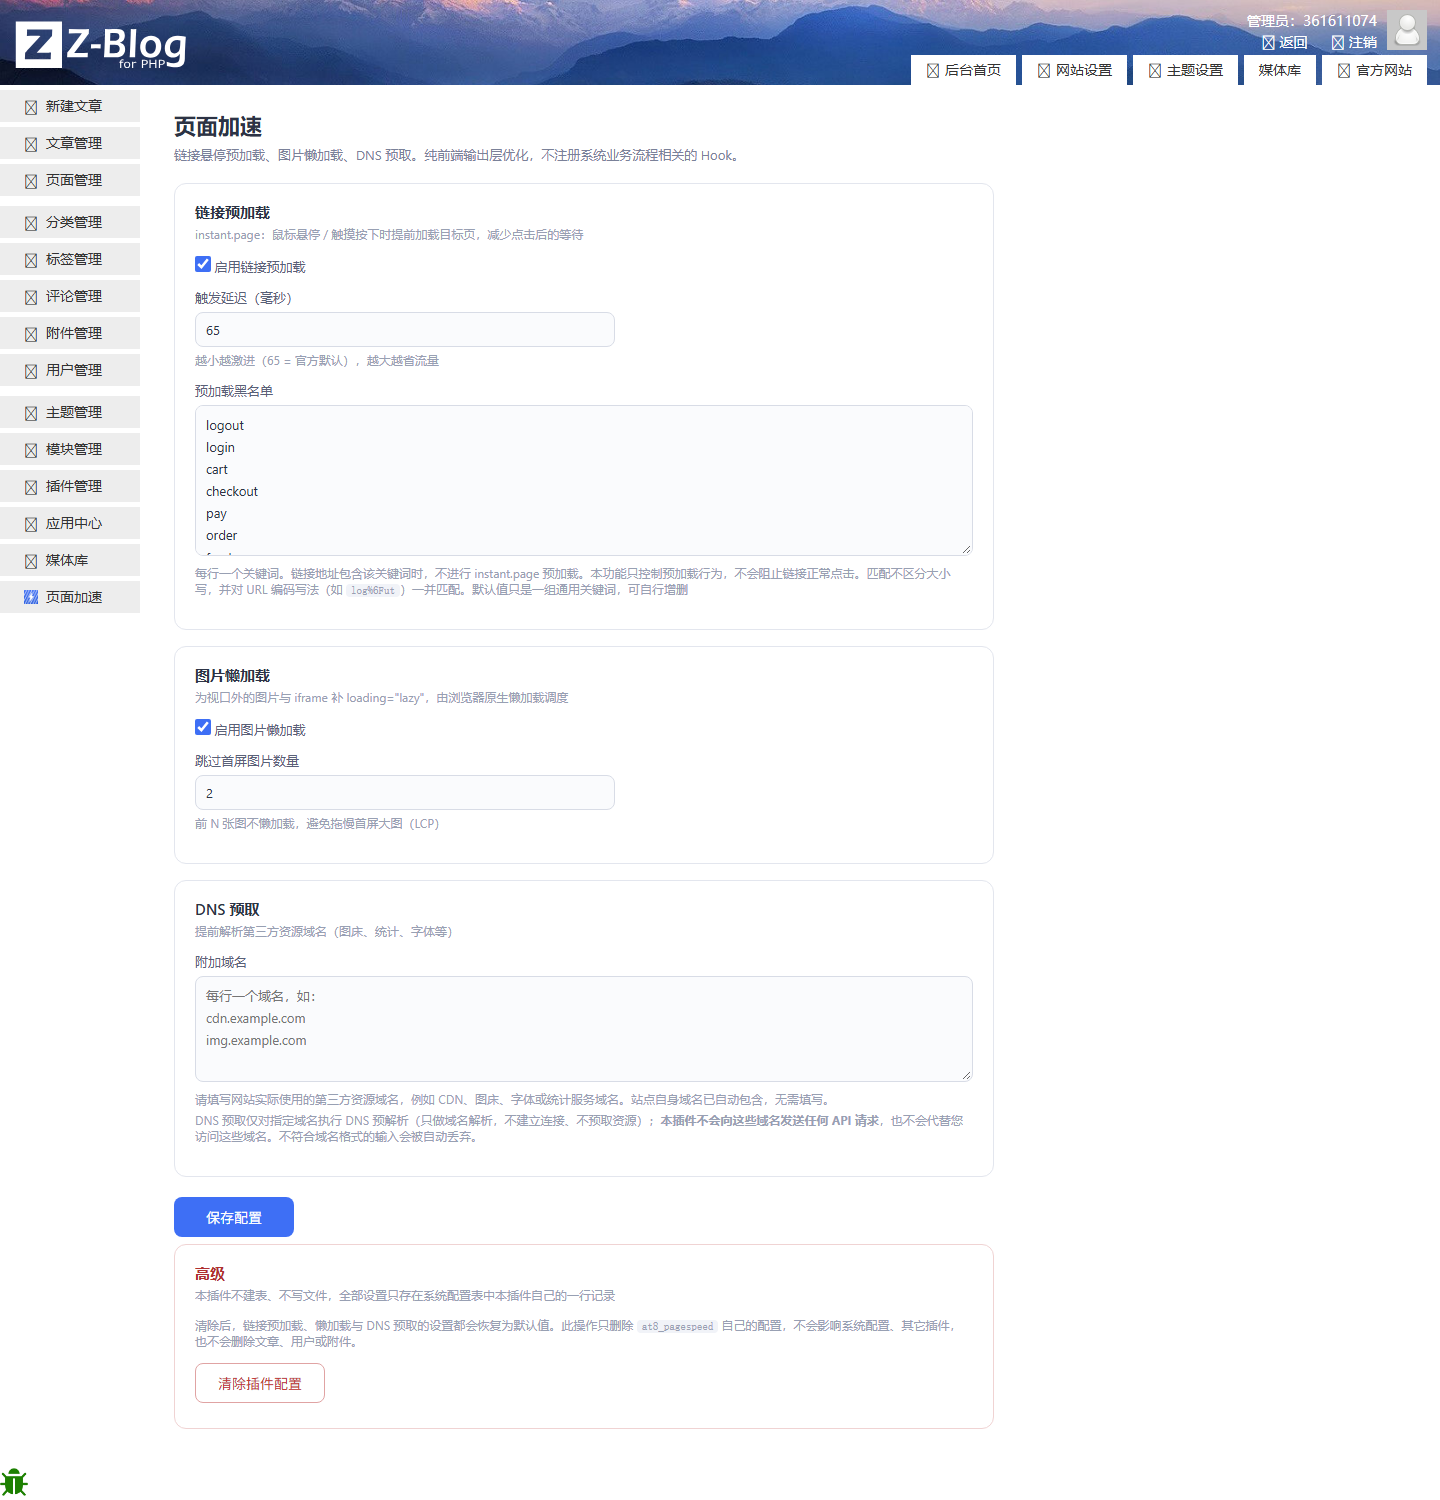
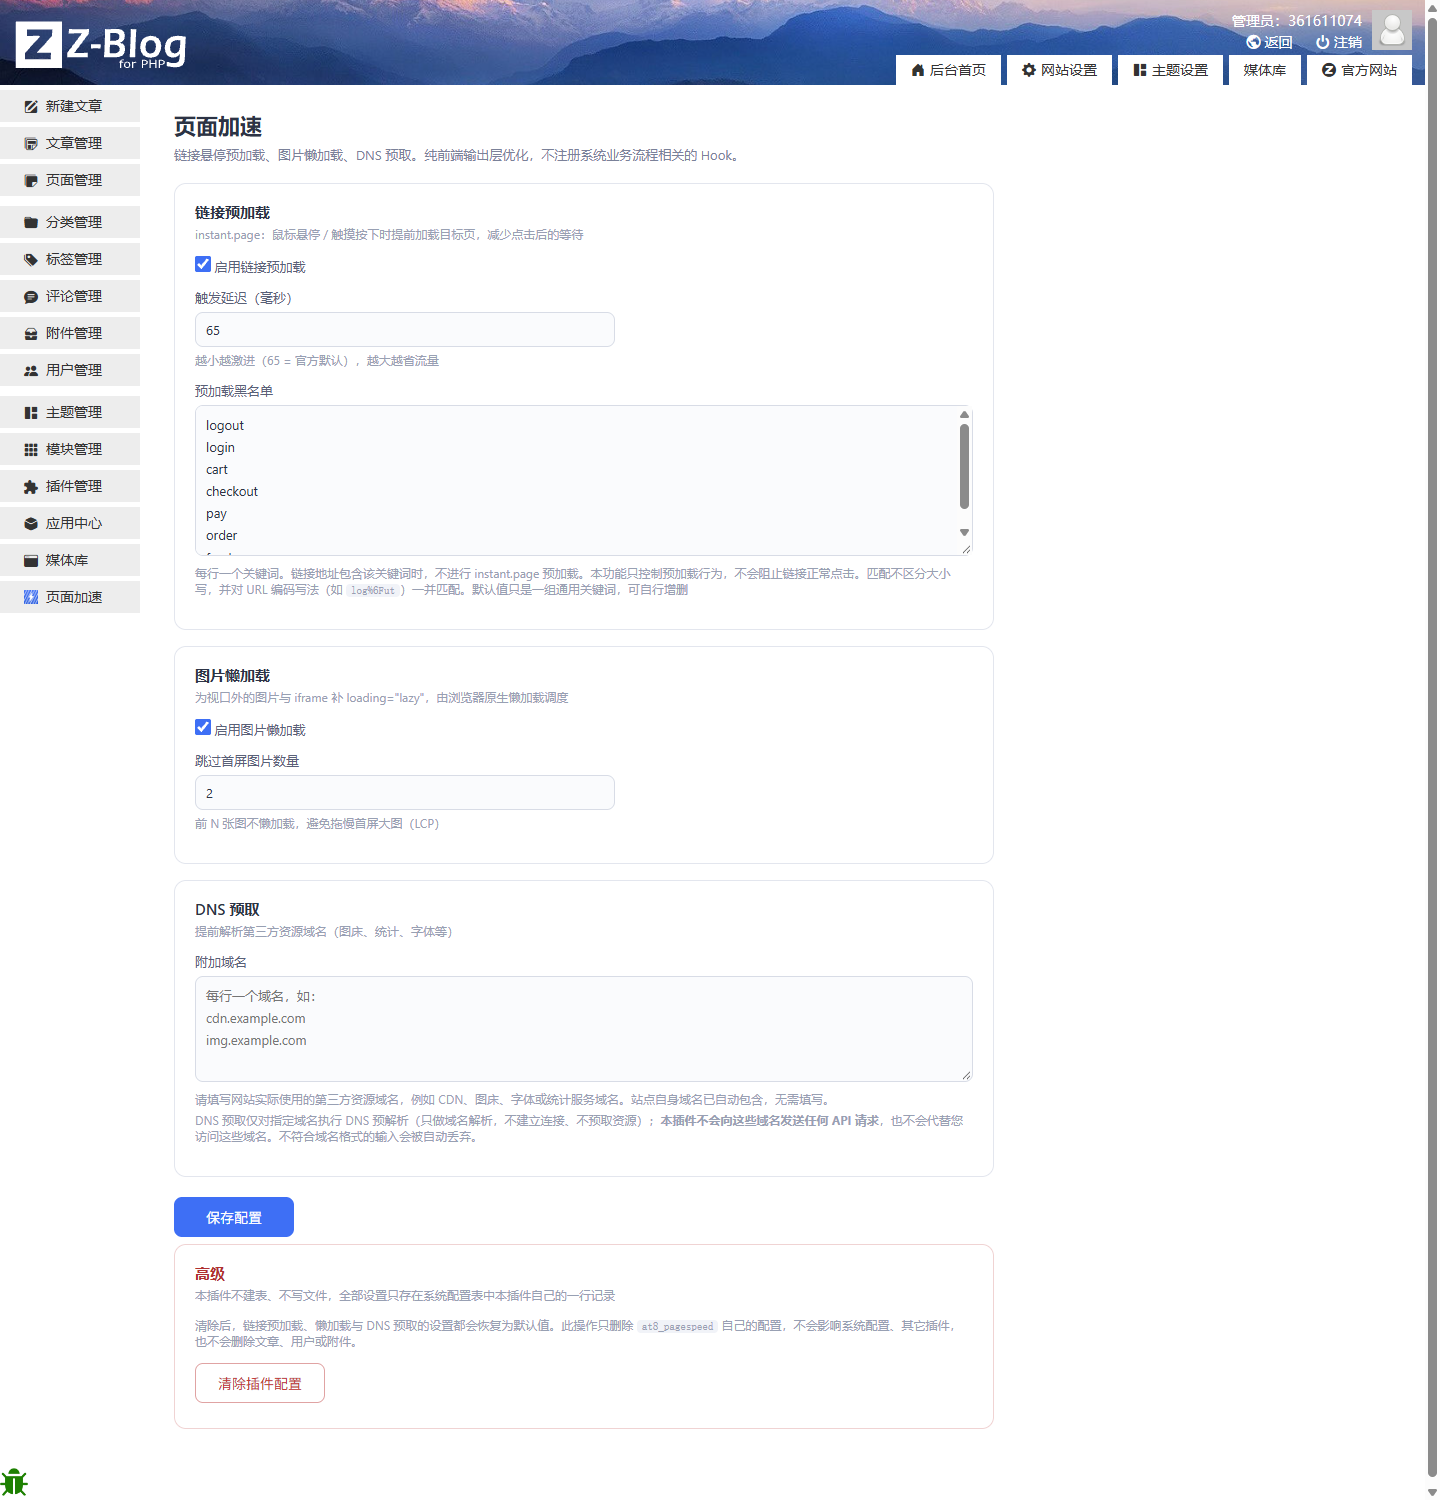
docs(1.1.1): screenshots/ 全部重截为 1.1.1 实际界面
- 01-后台设置页.png        1440×1500（尺寸与旧图一致）
- 02-前台页面-加速生效.png  1440×1000（未登录态，与旧图一致）
- 03-前台注入优化代码.png   1120×660（图中文字标注 v1.1.0 → 1.1.1）
  两段代码块为抓取 zblog.xmm.fan 前台真实输出后原样呈现：
  <!-- at8_pagespeed 1.1.1 --> 与三处 assets/*.js?v=1.1.1

三张均取自 1.1.1 实际运行的远程站点（1.7.5 Build 3540 + PHP 8.3.33 + MySQL 5.7 + nginx，主题 tpure）。
screenshots/ 按 zbignore.txt 不进分包，故不影响已发布的 dist/at8_pagespeed_1.1.1_20261013.zba。

RELEASE_CHECKLIST.md：§9 D 表两行改为已完成；§12 该待办项打勾并记录尺寸与来源。

diff --git a/RELEASE_CHECKLIST.md b/RELEASE_CHECKLIST.md
@@ -342,8 +342,8 @@ at8_pagespeed/assets/at8-lazy.js
 ### D. 应用发布内容
 | 标准 | 状态 |
 |---|---|
-| 后台配置页截图 | 需在发布前补/更新为 1.1.1 界面（`screenshots/` 不进分包） |
-| 前台展示截图 | 同上 |
+| 后台配置页截图 | ✅ `screenshots/01-后台设置页.png`（1440×1500，取自 1.1.1 实际运行的 `zblog.xmm.fan`；`screenshots/` 不进分包） |
+| 前台展示截图 | ✅ `screenshots/02-前台页面-加速生效.png`（1440×1000，未登录态）+ `screenshots/03-前台注入优化代码.png`（1120×660，图中标注为 `1.1.1`） |
 | 基本 / 详细使用说明 | ✅ `plugin.xml` `<description>` + `README.md`（含功能、安装、生命周期、安全） |
 
 ## 10. 未随本次复跑的历史结论（不得直接引用）
@@ -390,7 +390,7 @@ at8_pagespeed/assets/at8-lazy.js
 - [x] ~~用该发布物本身走官方安装链路验收~~ —— 已完成，23/23 PASS（§5.4）
 - [x] ~~清理 `dist/` 内 1.1.0 缺陷包~~ —— 已移除（git 历史 `8e5c105` 可取回），`dist/` 仅保留 1.1.1 发布物
 - [x] ~~远程真机以 1.1.1 复跑~~ —— 已完成，9/9 PASS（§6.3）
-- [ ] 更新 `screenshots/` 为 1.1.1 实际界面（现有三张截图为 1.1.0 界面；功能与布局未变，仅 `03-前台注入优化代码.png` 图中文字标注为 `v1.1.0`）
+- [x] ~~更新 `screenshots/` 为 1.1.1 实际界面~~ —— 已完成（2026-10-13），三张全部重截且尺寸与旧图一致：`01-后台设置页.png` 1440×1500、`02-前台页面-加速生效.png` 1440×1000（未登录态）、`03-前台注入优化代码.png` 1120×660（图中文字标注已由 `v1.1.0` 改为 `1.1.1`）。三者均取自 1.1.1 实际运行的 `zblog.xmm.fan`，`03` 的两段代码块为抓取该站前台真实输出后原样呈现。
 - [ ] 如需在对外材料引用 §10 中的历史结论，先重跑对应脚本
 
 ---
